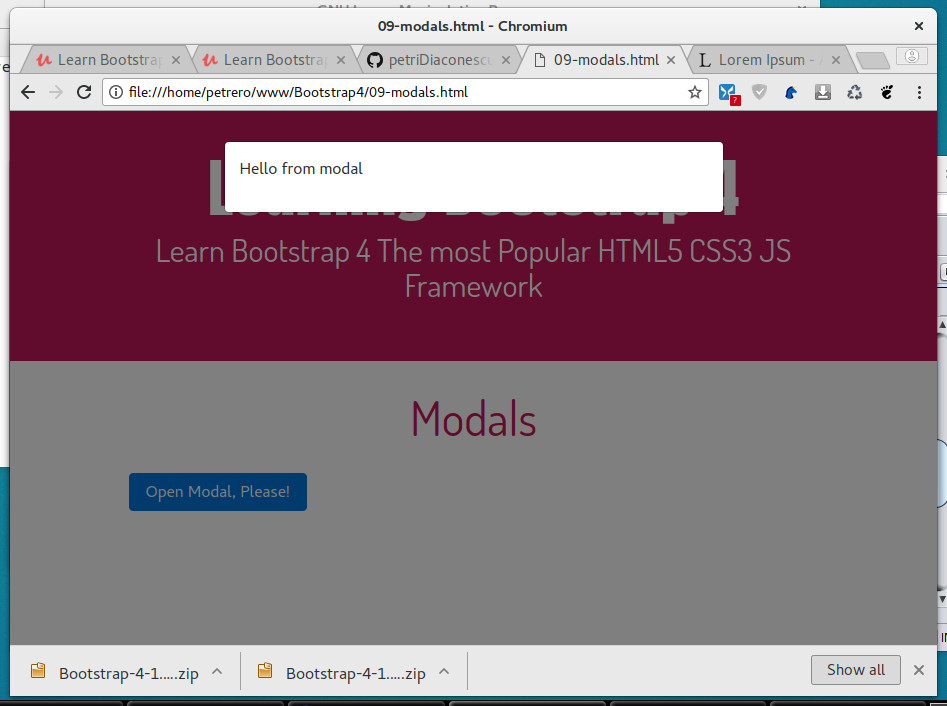
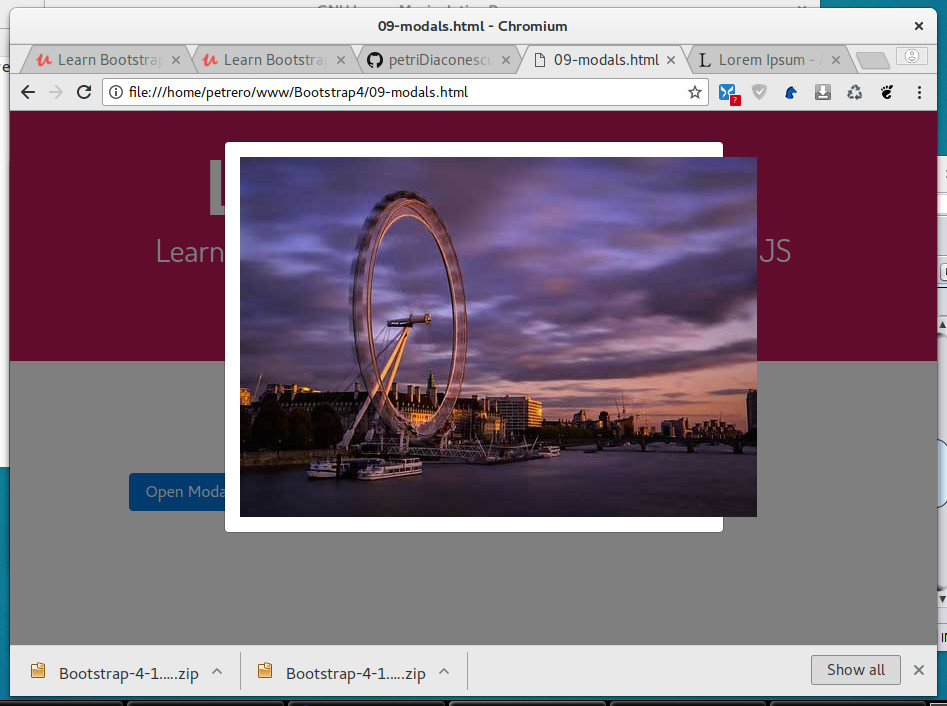
Display an image in modal instead of some text

Changed region(s): [[0.2144, 0.2181, 0.8268, 0.779]]

diff --git a/09-modals.html b/09-modals.html
@@ -33,7 +33,7 @@
             <div class="modal-dialog" role="document">
               <div class="modal-content">
                 <div class="modal-body">
-                  <p>Hello from modal</p>
+                  <img src="img/card_01.jpg" alt="" />
                 </div>
               </div>
             </div>
